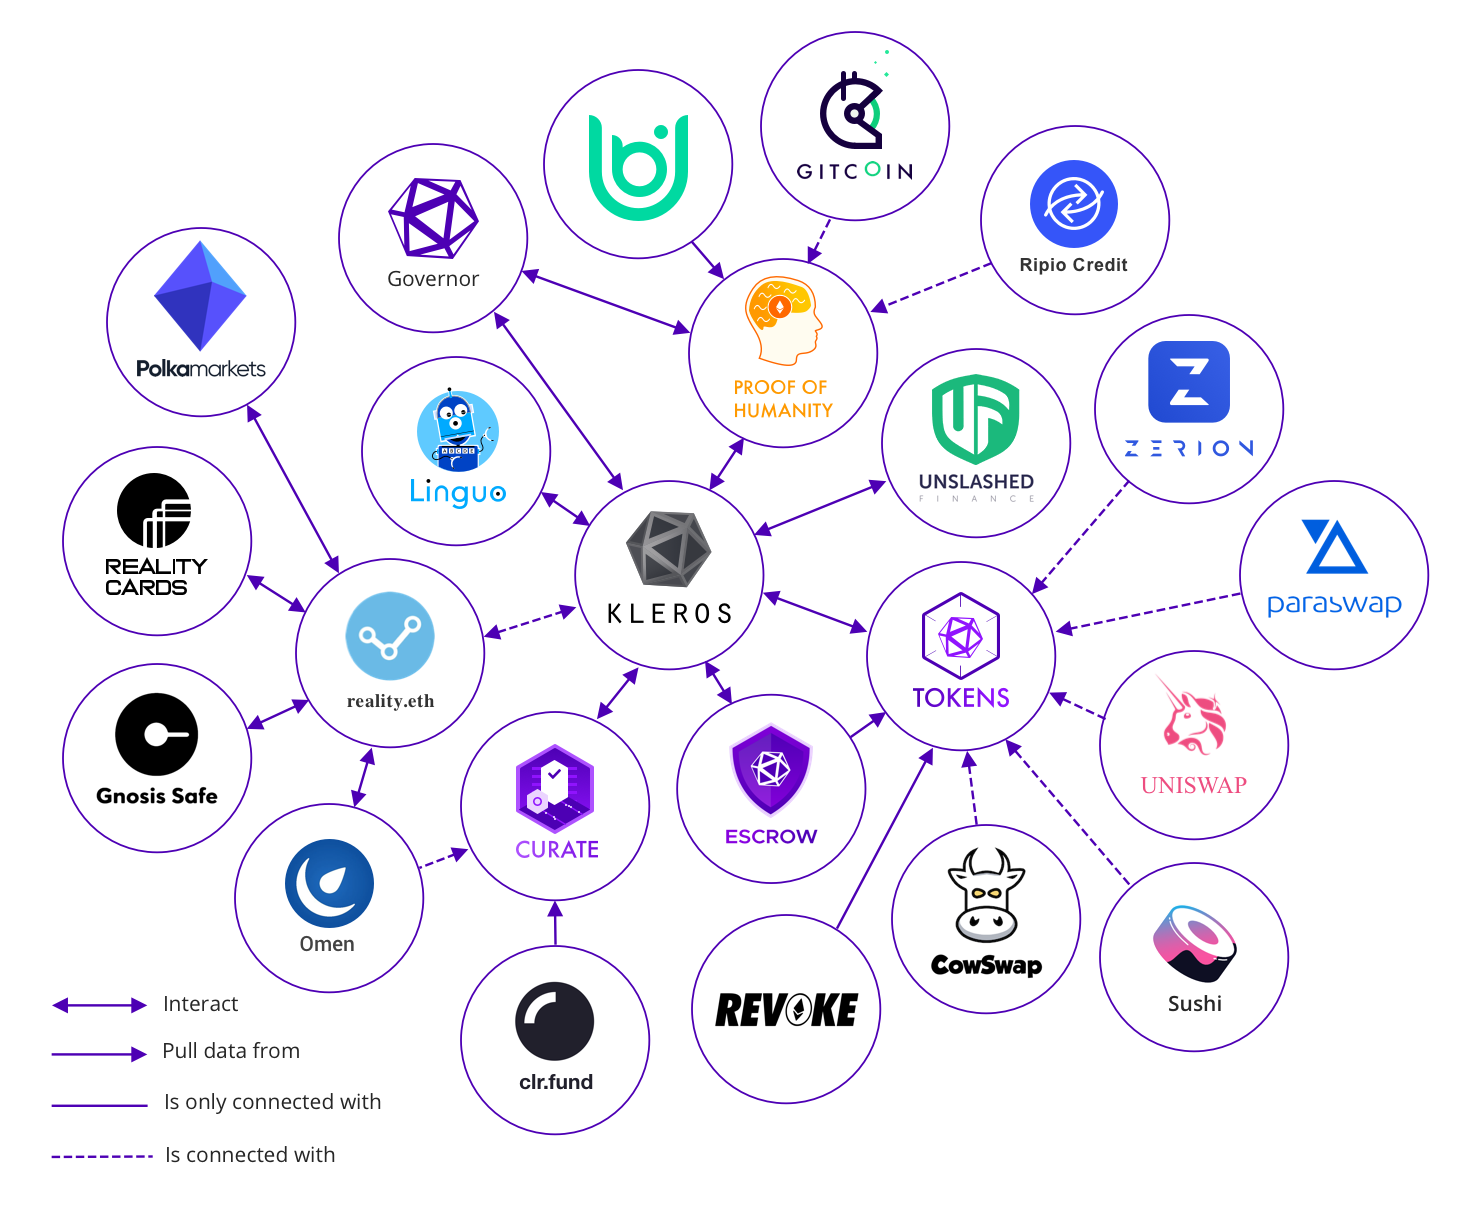
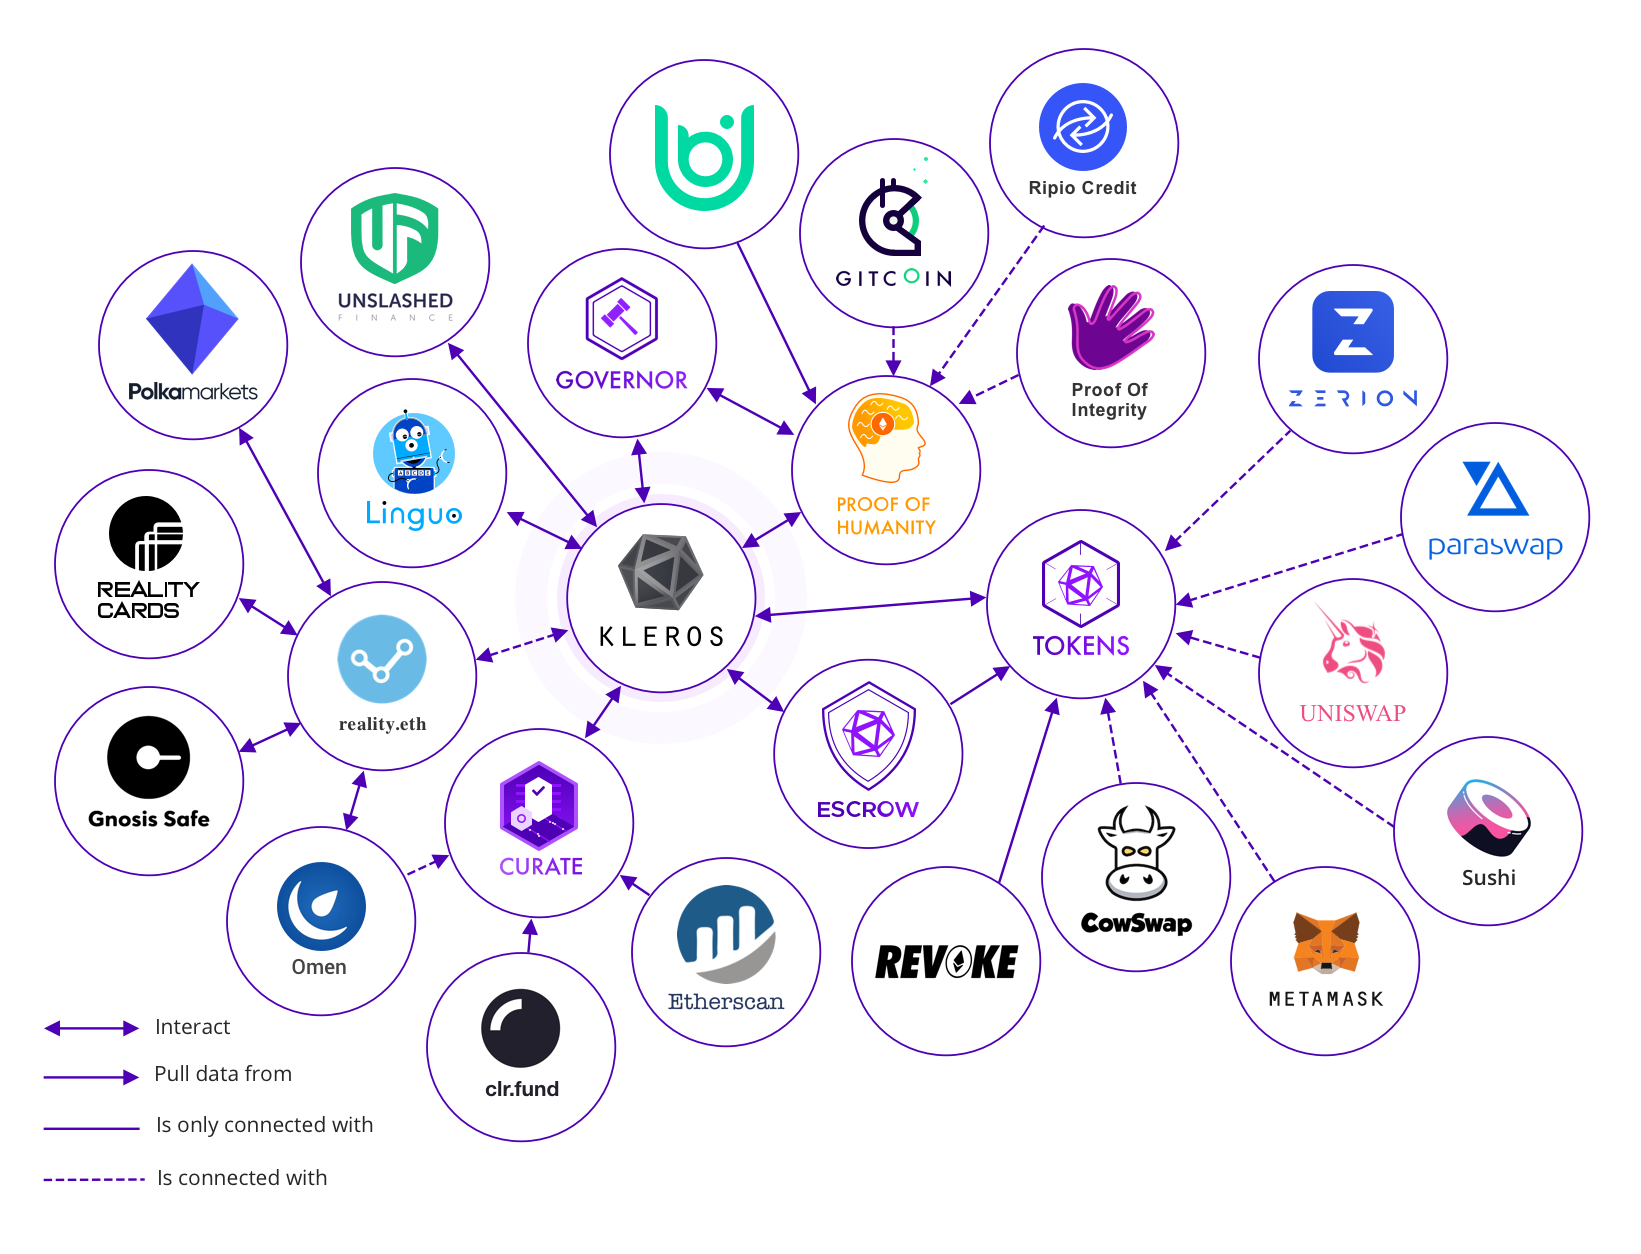
GitBook: [#247] No subject

Changed region(s): [[0.031, 0.0306, 0.9622, 0.9181], [0.031, 0.7957, 0.2483, 0.9793], [0.7449, 0.3672, 0.776, 0.3978]]

diff --git a/integrations/overview.md b/integrations/overview.md
@@ -14,7 +14,7 @@ description: How to integrate with Kleros?
 * If you want to manage crypto-vs-crypto transactions or service-vs-crypto transactions in your app, have a look at [Kleros Escrow](https://kleros.gitbook.io/docs/products/escrow) contract (+ Widget & SDK) for **Escrow-as-a-Service** features.
 * If you are a DAO looking to fully decentralize your governance (even the enforcement of proposal votes), check out [Kleros Governor](https://kleros.gitbook.io/docs/products/governor) and use it as **Supreme-Court-as-a-Service**.
 
-![](<../.gitbook/assets/image (95).png>)
+![](<../.gitbook/assets/image (95) (1).png>)
 
 ### What about Kleros products built on top of those services?
 
@@ -49,4 +49,3 @@ description: How to integrate with Kleros?
 {% content-ref url="analytics.md" %}
 [analytics.md](analytics.md)
 {% endcontent-ref %}
-

diff --git a/integrations/live-and-upcoming-integrations.md b/integrations/live-and-upcoming-integrations.md
@@ -6,7 +6,7 @@ description: Overview of the Kleros ecosystem
 
 The Kleros ecosystem lives and breathes through the disputes brought back to the Court by all arbitrable apps integrated with it. Some are developed by the Cooperative Kleros team (cf. Products sections) but most are external projects plugging into the Kleros products to get arbitration/curation/oracle/escrow services.
 
-![](<../.gitbook/assets/ecosystem-chart (5).png>)
+![](<../.gitbook/assets/image (95).png>)
 
 ## Live Integrations
 

diff --git a/products/escrow/new-in-progress-kleros-escrow-tutorial.md b/products/escrow/new-in-progress-kleros-escrow-tutorial.md
@@ -43,7 +43,7 @@ To start an Escrow transaction, you will need to connect your wallet and initiat
 
 * Before we get started, remember to sign up for email notifications to not miss any important deadlines. It is important as if one of the parties raise a dispute about the payment and you do not answer, they could win the case automatically.
 
-![](<../../.gitbook/assets/image (95) (1).png>)
+![](<../../.gitbook/assets/image (95) (1) (1).png>)
 
 #### 1.c/ Create a new Payment
 
